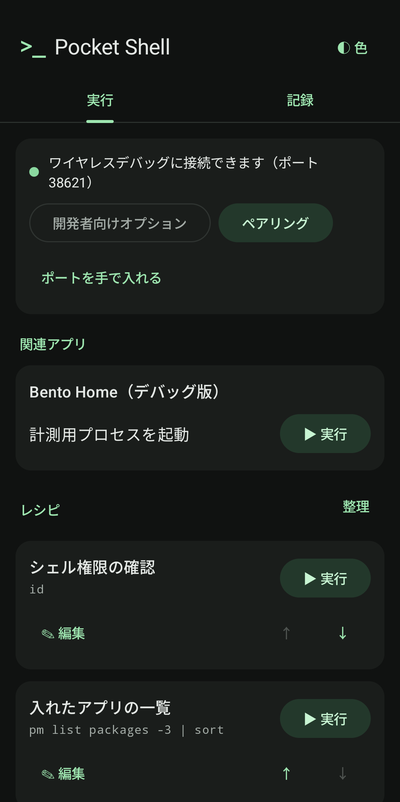
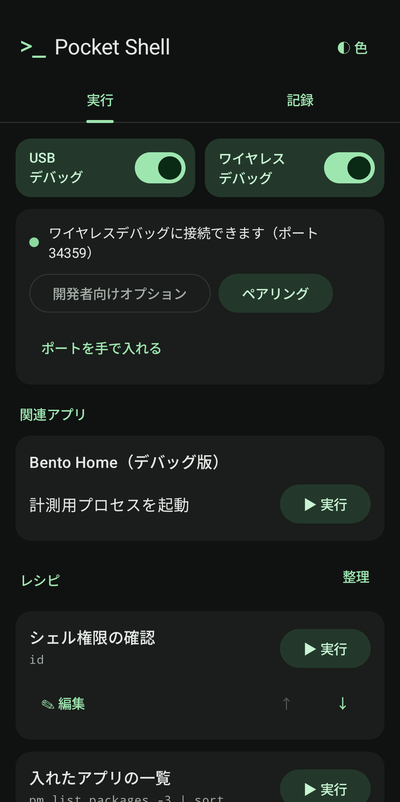
USB デバッグ・ワイヤレスデバッグのスイッチを追加し、README を短くする
- 実行タブの上に USB デバッグ・ワイヤレスデバッグのスイッチを横並びで置く（許可を一度付ければ切り替えられる）
- USB デバッグの設定値はアプリから読むと常に 0 なので、USB の状態の通知から読む
- README は概要と入れ方だけにし、手順は docs/setup.md に分ける
- MIT ライセンスを追加

diff --git a/app/src/main/java/com/rou39/pocketshell/MainActivity.kt b/app/src/main/java/com/rou39/pocketshell/MainActivity.kt
@@ -69,7 +69,16 @@ import androidx.compose.ui.unit.sp
 import androidx.compose.ui.window.DialogProperties
 import androidx.lifecycle.Lifecycle
 import androidx.lifecycle.LifecycleEventObserver
-import com.rou39.pocketshell.adb.WirelessDebugging
+import com.rou39.pocketshell.adb.DebugSettings
+import com.rou39.pocketshell.adb.DebugSwitch
+import android.database.ContentObserver
+import android.content.BroadcastReceiver
+import android.content.Context
+import android.content.IntentFilter
+import android.os.Handler
+import android.os.Looper
+import androidx.compose.material3.Switch
+import androidx.compose.foundation.selection.toggleable
 import com.rou39.pocketshell.data.Recipe
 import com.rou39.pocketshell.data.RelatedApp
 import com.rou39.pocketshell.data.RelatedApps
@@ -131,6 +140,35 @@ class MainActivity : ComponentActivity() {
 
     private fun refreshPermissions() {
         localNetworkGranted = checkSelfPermission(LOCAL_NETWORK) == PackageManager.PERMISSION_GRANTED
+    }
+
+    /** USB デバッグ・ワイヤレスデバッグの今の値。 */
+    private var switchStates by mutableStateOf<Map<DebugSwitch, Boolean>>(emptyMap())
+
+    private fun refreshSwitches() {
+        switchStates = DebugSwitch.entries.associateWith { DebugSettings.isOn(this, it) }
+    }
+
+    private val switchObserver = object : ContentObserver(Handler(Looper.getMainLooper())) {
+        override fun onChange(selfChange: Boolean) = refreshSwitches()
+    }
+
+    /** USB デバッグは設定値では追えないので、USB の状態の通知で追う。 */
+    private val usbStateReceiver = object : BroadcastReceiver() {
+        override fun onReceive(context: Context, intent: Intent) = refreshSwitches()
+    }
+
+    override fun onStart() {
+        super.onStart()
+        DebugSwitch.entries.forEach { contentResolver.registerContentObserver(DebugSettings.uri(it), false, switchObserver) }
+        registerReceiver(usbStateReceiver, IntentFilter(DebugSettings.USB_STATE), RECEIVER_EXPORTED)
+        refreshSwitches()
+    }
+
+    override fun onStop() {
+        contentResolver.unregisterContentObserver(switchObserver)
+        unregisterReceiver(usbStateReceiver)
+        super.onStop()
     }
 
     override fun onResume() {
@@ -302,14 +340,15 @@ class MainActivity : ComponentActivity() {
         var confirm by remember { mutableStateOf<RecipeReset?>(null) }
         // 権限を付けるコマンドを実行したあとに分かるよう、記録が変わるたびに調べ直す
         val logs by vm.logs.collectAsState()
-        val canToggle = remember(logs, port) { WirelessDebugging.canToggle(this@MainActivity) }
+        val canToggle = remember(logs, port) { DebugSettings.canToggle(this@MainActivity) }
 
         LazyColumn(
             verticalArrangement = Arrangement.spacedBy(12.dp),
             contentPadding = PaddingValues(16.dp),
             modifier = Modifier.fillMaxSize(),
         ) {
-            item { ConnectionCard(port, manualPort, pairing, canToggle, run) }
+            item { SwitchRow(canToggle, connected = port != null, run) }
+            item { ConnectionCard(port, manualPort, pairing, canToggle) }
             if (relatedApps.isNotEmpty()) {
                 item { SectionTitle("関連アプリ") }
                 items(relatedApps, key = { it.packageName }) { app -> RelatedAppCard(app, run) }
@@ -442,6 +481,59 @@ class MainActivity : ComponentActivity() {
         }
     }
 
+    /**
+     * USB デバッグ・ワイヤレスデバッグのスイッチ。横に並べる。
+     * 切り替えの許可がまだ無ければスイッチは今の状態を見せるだけにし、つながっていれば許可を付けるボタンを出す。
+     */
+    @Composable
+    private fun SwitchRow(canToggle: Boolean, connected: Boolean, run: (String, String) -> Unit) {
+        Column(verticalArrangement = Arrangement.spacedBy(8.dp)) {
+            Row(horizontalArrangement = Arrangement.spacedBy(10.dp)) {
+                for (sw in DebugSwitch.entries) {
+                    val on = switchStates[sw] == true
+                    Row(
+                        verticalAlignment = Alignment.CenterVertically,
+                        modifier = Modifier
+                            .weight(1f)
+                            .clip(RoundedCornerShape(16.dp))
+                            .background(
+                                if (on) MaterialTheme.colorScheme.primaryContainer else MaterialTheme.colorScheme.surfaceContainer,
+                            )
+                            .toggleable(
+                                value = on,
+                                enabled = canToggle,
+                                role = Role.Switch,
+                                onValueChange = { v ->
+                                    DebugSettings.set(this@MainActivity, sw, v)
+                                    refreshSwitches()
+                                },
+                            )
+                            .padding(start = 14.dp, end = 10.dp, top = 10.dp, bottom = 10.dp),
+                    ) {
+                        Text(
+                            sw.label,
+                            style = MaterialTheme.typography.labelLarge,
+                            color = if (on) MaterialTheme.colorScheme.onPrimaryContainer else MaterialTheme.colorScheme.onSurface,
+                            modifier = Modifier.weight(1f),
+                        )
+                        Switch(checked = on, onCheckedChange = null, enabled = canToggle)
+                    }
+                }
+            }
+            if (!canToggle) {
+                if (connected) {
+                    // つながっている今のうちに自分に権限を付けておくと、次からはスイッチで切り替えられる
+                    Note("許可すると、このスイッチで切り替えられるようになります。再起動しても残ります。")
+                    FilledTonalButton(onClick = { run("スイッチで切り替えられるようにする", DebugSettings.grantCommand(this@MainActivity)) }) {
+                        Text("スイッチで切り替えられるようにする")
+                    }
+                } else {
+                    Note("スイッチで切り替えるには、一度ワイヤレスデバッグでつないで許可を付けます（下の手順）。")
+                }
+            }
+        }
+    }
+
     /** 接続の状態。ワイヤレスデバッグの接続先が見つかっているか、ペアリングの進み具合。 */
     @Composable
     private fun ConnectionCard(
@@ -449,7 +541,6 @@ class MainActivity : ComponentActivity() {
         manualPort: Int?,
         pairing: PairingState,
         canToggle: Boolean,
-        run: (String, String) -> Unit,
     ) {
         var showManual by rememberSaveable { mutableStateOf(false) }
         // つながっていてペアリングも済んでいれば、説明は畳んで1行にする
@@ -472,19 +563,9 @@ class MainActivity : ComponentActivity() {
                 Note("ワイヤレスデバッグのポートを探すのに「ローカルネットワーク」の許可が要ります（端末の中だけを探します）。")
                 Button(onClick = { localNetworkPermission.launch(LOCAL_NETWORK) }) { Text("許可する") }
             } else if (port == null && canToggle) {
-                // 前に権限を付けてあれば、ここから直接オンにできる
-                Button(onClick = { WirelessDebugging.setEnabled(this@MainActivity, true) }, modifier = Modifier.fillMaxWidth()) {
-                    Text("ワイヤレスデバッグをオンにする")
-                }
-                Note("Wi-Fi につながっている必要があります。初めてつなぐ Wi-Fi では、開発者向けオプションから一度オンにしてください。")
+                Note("上のスイッチでワイヤレスデバッグをオンにしてください。Wi-Fi につながっている必要があります。初めてつなぐ Wi-Fi では、開発者向けオプションから一度オンにしてください。")
             } else if (port == null) {
                 Note("開発者向けオプションで「ワイヤレスデバッグ」をオンにしてください。Wi-Fi につながっている必要があります。再起動するとオフに戻ります。")
-            } else if (!canToggle) {
-                // つながっている今のうちに自分に権限を付けておくと、次からはボタンでオンにできる
-                Note("再起動するとワイヤレスデバッグはオフに戻ります。許可しておくと、次からはここのボタンでオンにできます。")
-                FilledTonalButton(onClick = { run("ボタンでオンにできるようにする", WirelessDebugging.grantCommand(this@MainActivity)) }) {
-                    Text("ボタンでオンにできるようにする")
-                }
             }
             pairingMessage(pairing)?.let { Note(it) }
             Row(horizontalArrangement = Arrangement.spacedBy(8.dp)) {
@@ -501,14 +582,7 @@ class MainActivity : ComponentActivity() {
                         "画面の上から通知欄を下ろし、Pocket Shell の通知の「コードを入力」に6桁を入れます。",
                 )
             }
-            Row(verticalAlignment = Alignment.CenterVertically) {
-                TextButton(onClick = { showManual = !showManual }) { Text(if (showManual) "ポートの手入力を閉じる" else "ポートを手で入れる") }
-                Spacer(Modifier.weight(1f))
-                // 使い終わったら閉じられるように
-                if (port != null && canToggle) {
-                    TextButton(onClick = { WirelessDebugging.setEnabled(this@MainActivity, false) }) { Text("オフにする") }
-                }
-            }
+            TextButton(onClick = { showManual = !showManual }) { Text(if (showManual) "ポートの手入力を閉じる" else "ポートを手で入れる") }
             if (showManual) {
                 OutlinedTextField(
                     value = manualPort?.toString().orEmpty(),

diff --git a/app/src/main/java/com/rou39/pocketshell/adb/DebugSettings.kt b/app/src/main/java/com/rou39/pocketshell/adb/DebugSettings.kt
@@ -1,0 +1,55 @@
+package com.rou39.pocketshell.adb
+
+import android.content.Context
+import android.content.IntentFilter
+import android.content.pm.PackageManager
+import android.net.Uri
+import android.provider.Settings
+
+/** 画面のスイッチで切り替える、開発者向けオプションの項目。label は「デバッグ」を2行目に置く（狭い幅で途中で折れないように）。 */
+enum class DebugSwitch(val label: String, val setting: String) {
+    USB("USB\nデバッグ", "adb_enabled"),
+    WIRELESS("ワイヤレス\nデバッグ", "adb_wifi_enabled"),
+}
+
+/**
+ * USB デバッグ・ワイヤレスデバッグのオンオフ。設定値を直接書き換えるので、adb の接続が無くても切り替えられる。
+ * 書き換えには WRITE_SECURE_SETTINGS が要る。これは adb からしか付けられないので、
+ * 一度ワイヤレスデバッグでつないだときに、Pocket Shell 自身の adb で [grantCommand] を実行して付ける。
+ * 付けた権限は再起動しても残る。今の値を読むだけなら権限は要らない。
+ */
+object DebugSettings {
+    private const val PERMISSION = "android.permission.WRITE_SECURE_SETTINGS"
+
+    fun canToggle(context: Context): Boolean =
+        context.checkSelfPermission(PERMISSION) == PackageManager.PERMISSION_GRANTED
+
+    /**
+     * 今オンか。USB デバッグの設定値は、アプリから読むと常に 0 が返る（Android 17 で確認）。
+     * そこで USB の状態の通知（[USB_STATE]、最後の値が残る）にある adb の有無を使う。
+     */
+    fun isOn(context: Context, switch: DebugSwitch): Boolean = when (switch) {
+        DebugSwitch.USB -> context.registerReceiver(null, IntentFilter(USB_STATE), Context.RECEIVER_EXPORTED)
+            ?.getBooleanExtra(USB_EXTRA_ADB, false)
+            ?: settingOn(context, switch)
+        DebugSwitch.WIRELESS -> settingOn(context, switch)
+    }
+
+    private fun settingOn(context: Context, switch: DebugSwitch): Boolean =
+        Settings.Global.getInt(context.contentResolver, switch.setting, 0) == 1
+
+    /** USB の状態の通知（UsbManager.ACTION_USB_STATE。公開されていない名前なので文字で持つ）。 */
+    const val USB_STATE = "android.hardware.usb.action.USB_STATE"
+    private const val USB_EXTRA_ADB = "adb"
+
+    /** オンオフを書き換える。権限が無ければ false。 */
+    fun set(context: Context, switch: DebugSwitch, on: Boolean): Boolean = runCatching {
+        Settings.Global.putInt(context.contentResolver, switch.setting, if (on) 1 else 0)
+    }.getOrDefault(false)
+
+    /** 値が変わったことを受け取るための場所（ContentObserver に渡す）。 */
+    fun uri(switch: DebugSwitch): Uri = Settings.Global.getUriFor(switch.setting)
+
+    /** 自分に権限を付けるコマンド。ワイヤレスデバッグでつながっているときに実行する。 */
+    fun grantCommand(context: Context): String = "pm grant ${context.packageName} $PERMISSION"
+}

diff --git a/docs/setup.md b/docs/setup.md
@@ -1,0 +1,49 @@
+# Pocket Shell の使い方
+
+[README](../README.md) の続きです。入れたあと、使えるようになるまでの手順をまとめます。
+
+## 1. 開発者向けオプションを出す
+
+1. Android の設定 → デバイス情報 を開きます。
+2. 「ビルド番号」を7回続けて押します。「デベロッパーになりました」と出れば完了です。
+
+## 2. ワイヤレスデバッグをオンにする
+
+1. Pocket Shell を開き、「ローカルネットワーク」の許可を求められたら「許可する」を押します。スマホの中のワイヤレスデバッグを探すのに使います。
+2. 「開発者向けオプション」を押し、「ワイヤレスデバッグ」をオンにします。Wi-Fi につながっている必要があります。
+
+ワイヤレスデバッグは、スマホを再起動するとオフに戻ります。
+
+## 3. ペアリングする（最初の1回だけ）
+
+1. Pocket Shell の「ペアリング」を押すと、設定が開きます。
+2. 「ワイヤレスデバッグ」→「ペア設定コードによるデバイスのペア設定」を開きます。6桁のコードが出ます。
+3. コードの画面は**開いたまま**、画面の上から通知欄を下ろします。
+4. Pocket Shell の通知の「コードを入力」に、その6桁を入れます。
+5. 「ペアリングしました」と出たら完了です。Pocket Shell に戻ります。
+
+## 4. コマンドを実行する
+
+- 「実行」のタブに「ワイヤレスデバッグに接続できます」と出ていれば準備完了です。
+- レシピの「▶ 実行」を押すと、「記録」のタブに結果が出ます。
+- 「＋ レシピを追加」で、よく使うコマンドを名前を付けて登録できます。その場で打ったコマンドも「レシピにする」で残せます。
+- レシピの「整理」から、最初の例に戻すことも、すべて削除することもできます。
+
+## 5. スイッチで切り替えられるようにする（任意）
+
+「実行」のタブの一番上にある「USB デバッグ」「ワイヤレスデバッグ」のスイッチで、開発者向けオプションを開かずにオンオフできます。
+
+使えるようにするには、一度つながったときに「スイッチで切り替えられるようにする」を押します。Pocket Shell が自分に設定を切り替える許可を付け、許可は再起動しても残ります。
+
+- 再起動でワイヤレスデバッグがオフになっても、スイッチでオンにできます。使い終わったらオフにしておくと安心です。
+- 初めてつなぐ Wi-Fi では、開発者向けオプションから一度オンにしてください。
+- USB デバッグをオフにすると、パソコンからの adb はつながらなくなります。
+
+## つながらないとき
+
+「ポートを手で入れる」から、ワイヤレスデバッグの画面に出ている「IP アドレスとポート」のコロンの後ろの数字を入れてください。
+
+## プライバシー
+
+- インターネットの権限を持っていますが、つなぐのはスマホの中の adb（127.0.0.1）だけです。外部には通信しません。
+- 実行したコマンドと結果は、アプリを閉じると消えます。スマホの中に保存するのは、登録したレシピ・色の設定・ペアリングに使う鍵だけです。
